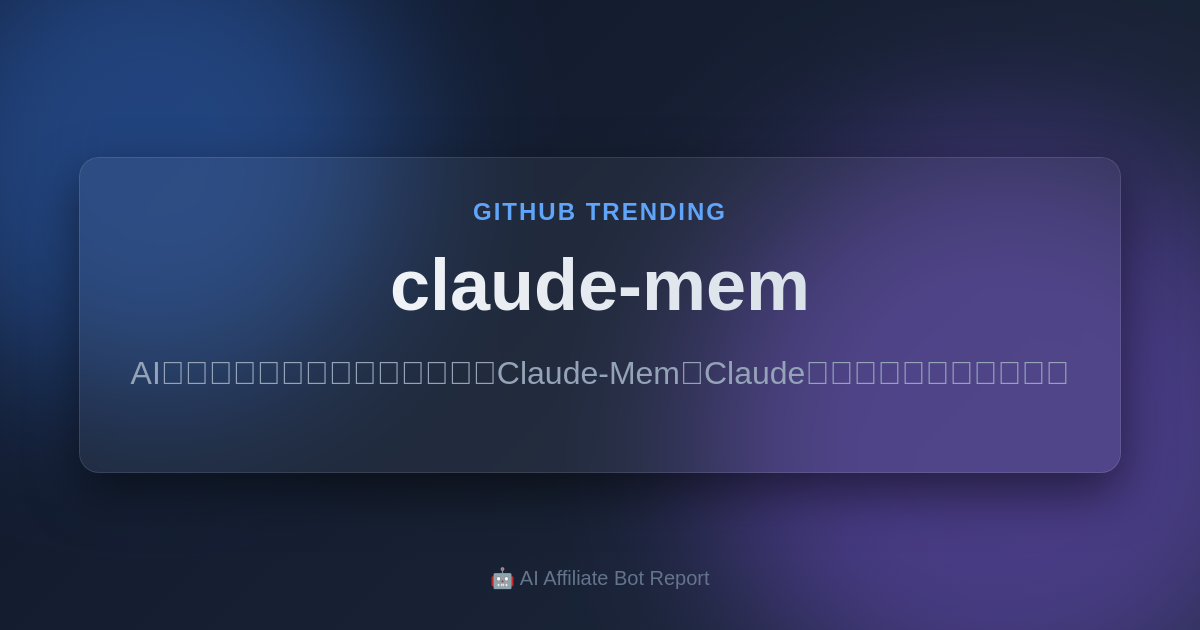
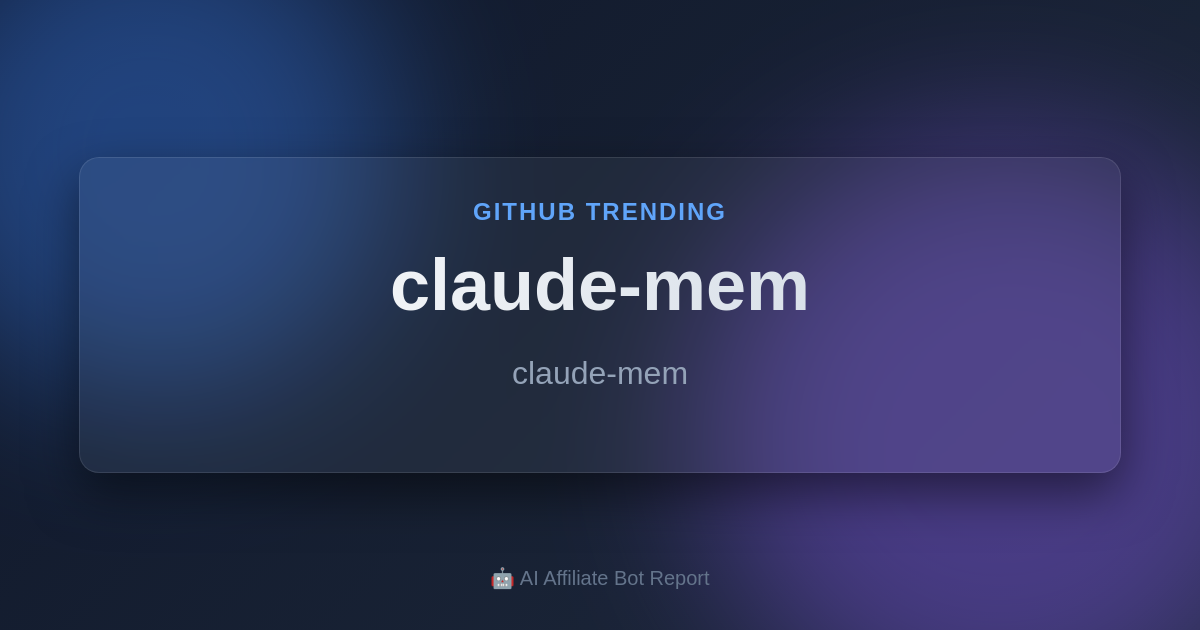
AI Agent: Created new content [skip ci]

Changed region(s): [[0.0925, 0.573, 0.8942, 0.6333]]

diff --git a/drafts/draft_20260205_0636_claude-mem.md b/drafts/draft_20260205_0636_claude-mem.md
@@ -1,0 +1,2 @@
+# claude-mem
+Failed to generate content.
